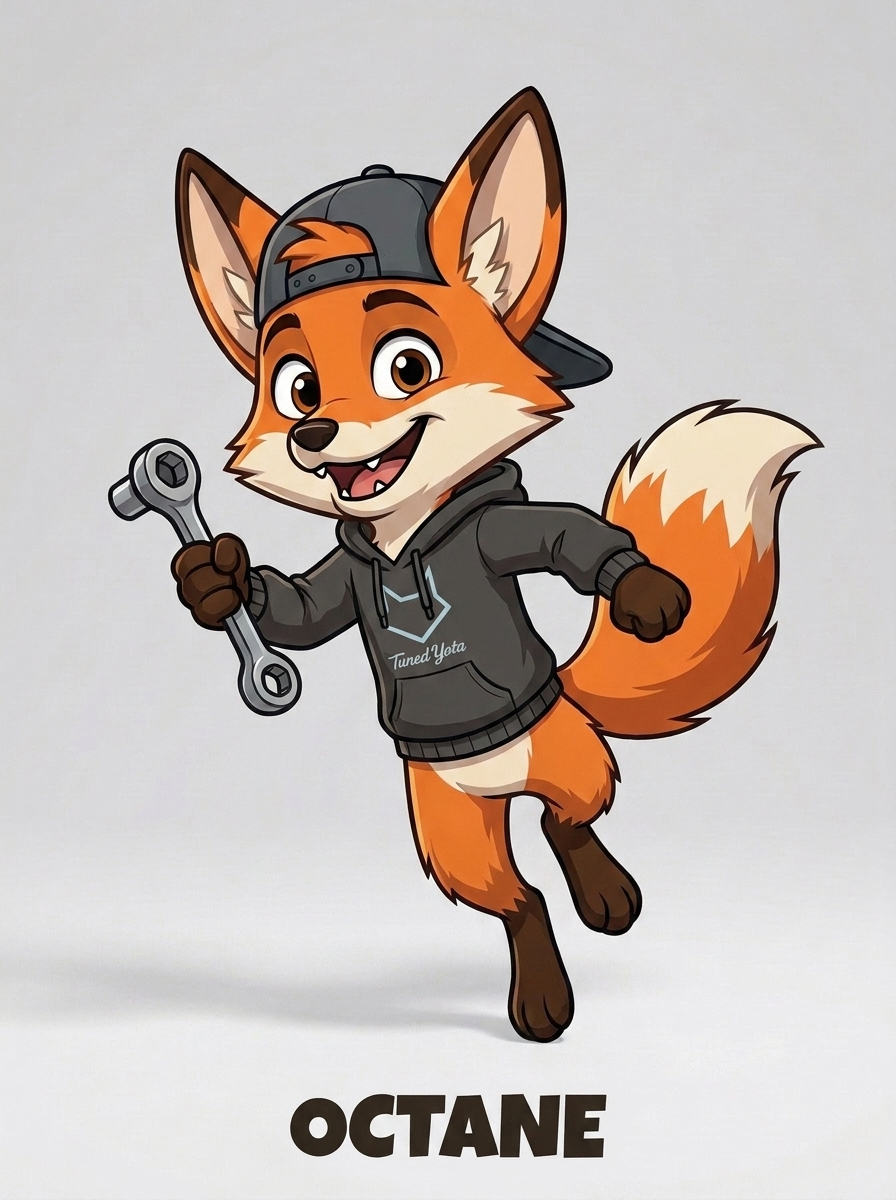
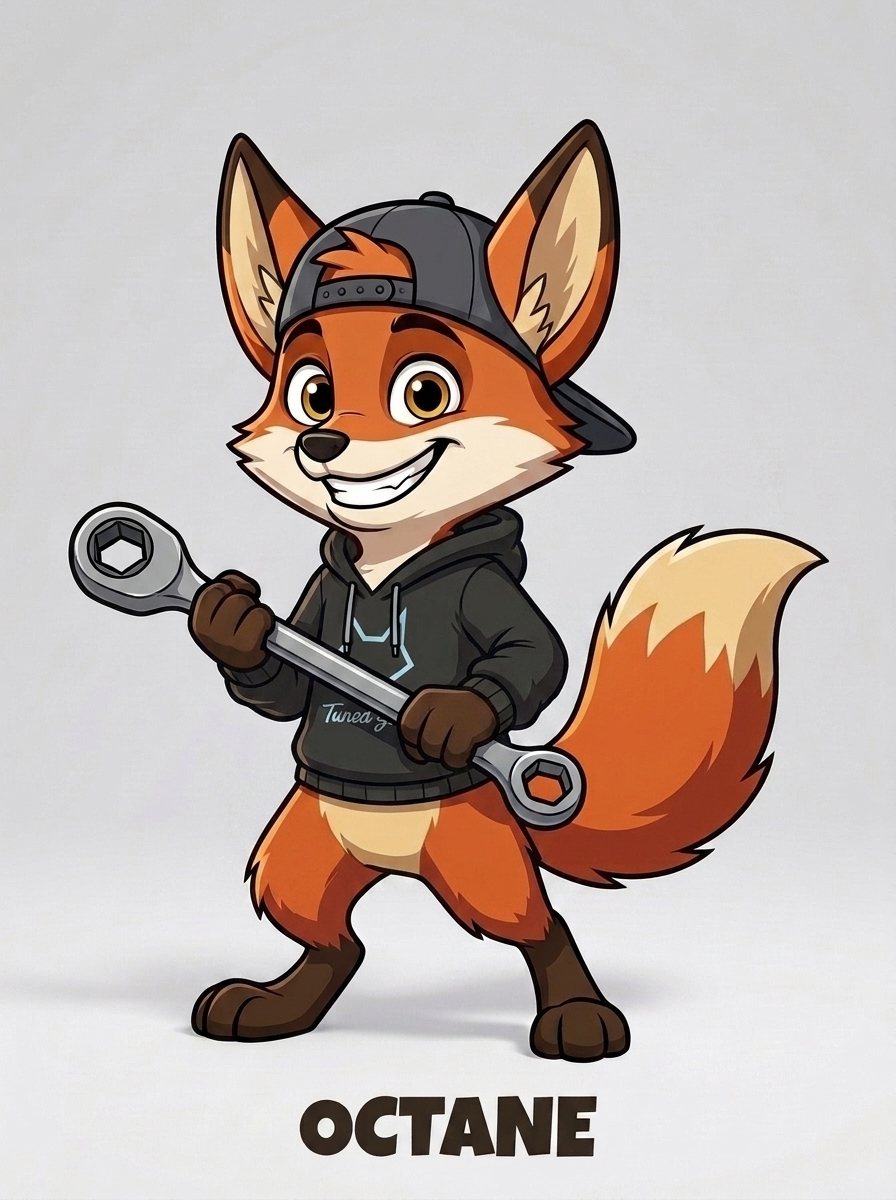
feat(octane): revise master to #02 base + tan tail (owner)
Owner refined the sidekick master: keep render #02's pose/outfit (planted stance,
backwards cap, TY hoodie, socket wrench) but recolor with render #01's warmer body
and a tan tail tip instead of white. Brief updated.

diff --git a/docs/brand/octane/character-brief.md b/docs/brand/octane/character-brief.md
@@ -40,8 +40,10 @@ Characters are named and colored from the Toyota paint deck — expandable:
 - Future candidates: Cavalry Blue ("Cav"), Barcelona Red ("Barca"), etc.
 
 ## Canonical asset
-`assets/octane/octane-master-v1.png` (owner-picked render, generated via Gemini
-Nano Banana Pro with Rocky's v2 master as the style anchor). **All** future Octane
+`assets/octane/octane-master-v1.png` (owner-picked: render #02's pose/outfit —
+planted stance, backwards cap, TY hoodie, socket wrench — recolored with render
+#01's warmer body and **tan tail tip** instead of white; generated via Gemini Nano
+Banana Pro). **All** future Octane
 turnaround/expression/3D/episode work derives from this single image — never
 re-prompt from scratch (same consistency rule as Rocky). See
 `docs/brand/rocky/concept-prompt-pack.md`.
